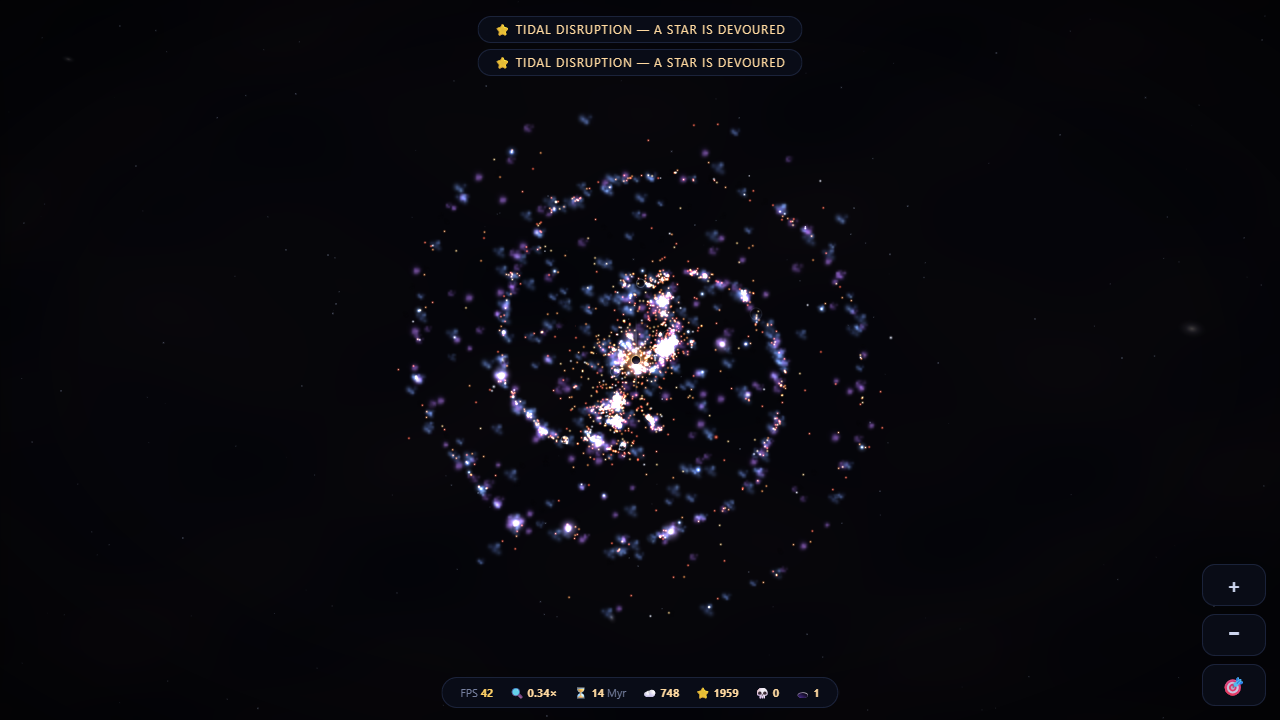
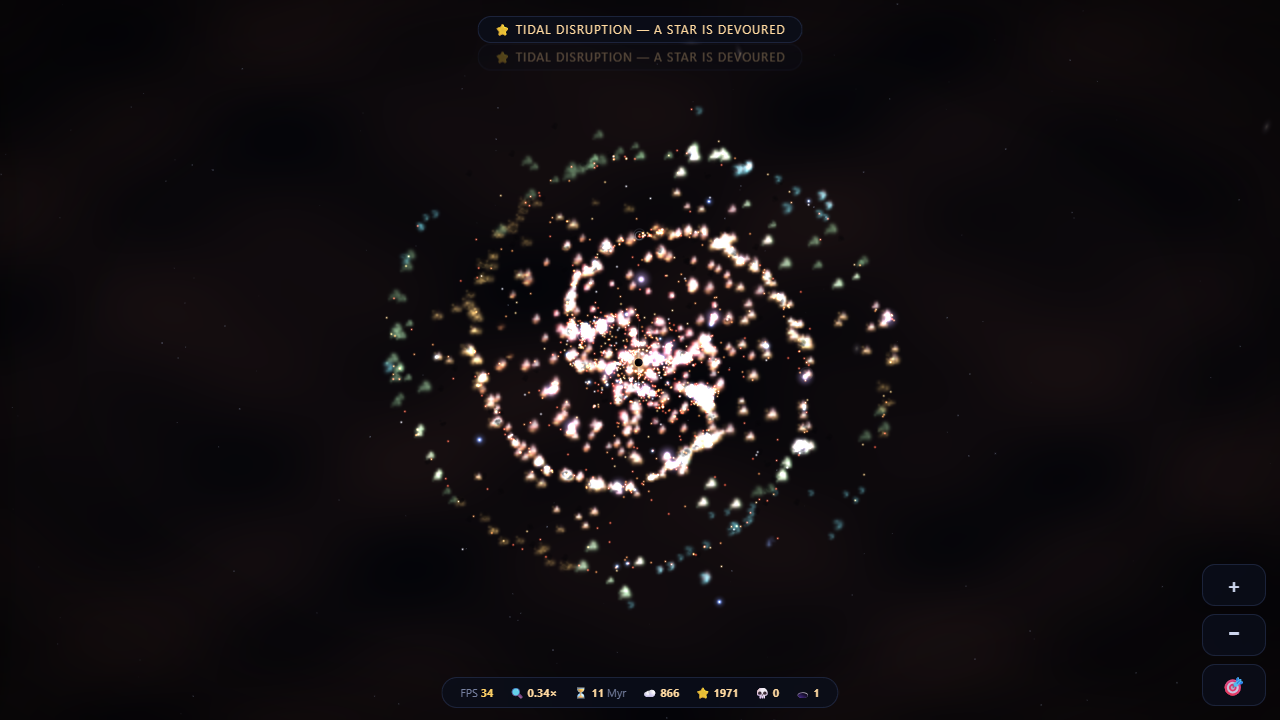
Chandra treatment: regional nebula palettes, HII glow, filament remnants
Gas now takes its tint from a smooth spatial hue field (reseeded each
universe), so every cloud owns a coherent palette - a crimson nebula
here, a teal one there - instead of per-particle confetti averaging to
purple. Eight-tint palette wheel; supernova ejecta glows rust-and-gold.
A coarse screen-space starlight grid splats hot young stars so nearby
gas brightens and ionizes into white-pink HII regions while starless
clouds stay cold and dim. Supernovae now leave a long-lived remnant: a
ragged filamentary shell of cool blue arcs threaded with shocked amber
that expands like sqrt(t) and slowly fades - Cassiopeia A, not a circle.

diff --git a/render.js b/render.js
@@ -14,6 +14,9 @@ const gctx = gasCv.getContext('2d');
 // scratch canvas for the gravitational-lens trick around black holes
 const lensCv = document.createElement('canvas'); lensCv.width = lensCv.height = 256;
 const lctx = lensCv.getContext('2d');
+// coarse screen-space starlight grid — how brightly lit is each patch of sky
+const LG_C = 40, LG_R = 24;
+const lightG = new Float32Array(LG_C * LG_R);
 let W, H, DPR;
 function resize(){
   DPR = Math.min(2, window.devicePixelRatio || 1);
@@ -209,14 +212,22 @@ function makeCloud(core, halo){
   }
   return c;
 }
+// a full palette wheel — the hue field in sim.js sweeps through these, so
+// neighbouring clouds blend and distant regions contrast (crimson nebulae
+// here, teal ones there, gold ejecta where stars have died)
 const GAS_TINTS = [
-  ['rgba(130,170,255,0.5)', 'rgba(60,90,200,0.22)'],
-  ['rgba(190,130,255,0.5)', 'rgba(110,60,200,0.22)'],
-  ['rgba(120,225,235,0.5)', 'rgba(40,130,160,0.22)'],
-  ['rgba(255,140,190,0.5)', 'rgba(180,50,110,0.22)'],
+  ['rgba(255,110,110,0.5)', 'rgba(170,40,60,0.22)'],    // crimson
+  ['rgba(255,160,100,0.5)', 'rgba(170,80,40,0.22)'],    // rust
+  ['rgba(255,210,120,0.5)', 'rgba(170,120,40,0.22)'],   // gold
+  ['rgba(170,230,170,0.5)', 'rgba(60,140,90,0.22)'],    // sage
+  ['rgba(120,225,235,0.5)', 'rgba(40,130,160,0.22)'],   // teal
+  ['rgba(130,170,255,0.5)', 'rgba(60,90,200,0.22)'],    // blue
+  ['rgba(190,130,255,0.5)', 'rgba(110,60,200,0.22)'],   // violet
+  ['rgba(255,140,190,0.5)', 'rgba(180,50,110,0.22)'],   // magenta
 ];
-const GAS_SPRS = [];
-for (const [c1, c2] of GAS_TINTS){ GAS_SPRS.push(makeCloud(c1, c2), makeCloud(c1, c2)); }
+const GAS_SPRS = GAS_TINTS.map(([c1, c2]) => makeCloud(c1, c2));
+// an ionized HII region: gas lit white-pink by the hot young stars inside it
+const emisSpr = makeCloud('rgba(255,205,215,0.6)', 'rgba(255,140,160,0.28)');
 
 // diffraction spikes — the telescope signature of a bright point source.
 // Four main axis-aligned arms plus faint diagonals, pre-rendered once.
@@ -328,6 +339,10 @@ function drainEvents(){
     for (const fn of listeners) fn(e);
     if (e.t === 'sn'){
       fx.push({ k:'sn', x:e.x, y:e.y, age:0, max:90, m:e.m });
+      // …and a remnant: a tattered filamentary shell that lingers and expands
+      const jit = new Float32Array(28);
+      for (let j=0;j<28;j++) jit[j] = Math.random()*2 - 1;
+      fx.push({ k:'snr', x:e.x, y:e.y, age:0, max:560, m:e.m, jit });
       if (!reduceMotion){
         // the closer (and more zoomed-in) the blast, the harder it hits
         const dx = sx(e.x)-W*0.5, dy = sy(e.y)-H*0.5;
@@ -408,6 +423,21 @@ function drawFx(){
       ctx.moveTo(x - Math.cos(f.a)*L, y - Math.sin(f.a)*L);
       ctx.lineTo(x + Math.cos(f.a)*L, y + Math.sin(f.a)*L);
       ctx.stroke();
+    } else if (f.k === 'snr'){
+      // supernova remnant: ragged arcs, cool blue filaments threaded with
+      // shocked amber — expansion fast at first, then stalling (~sqrt t)
+      const r0 = (130 + f.m*3.5) * Math.min(1, Math.sqrt(f.age/110)) * cam.z;
+      if (r0 < 3) continue;
+      const fade = (1-t)*(1-t);
+      const segs = 28, J = f.jit;
+      ctx.lineWidth = Math.max(0.8, 1.6*cam.z*DPR);
+      for (let s=0;s<segs;s++){
+        const a0 = s/segs*6.2832, a1 = (s+0.8)/segs*6.2832;
+        const rr = r0 * (1 + J[s]*0.16 + 0.05*Math.sin(f.age*0.013 + s*2.4));
+        ctx.globalAlpha = fade * (0.3 + 0.35*Math.abs(J[(s+7)%segs]));
+        ctx.strokeStyle = J[s] > 0.15 ? 'rgba(150,210,255,1)' : 'rgba(255,170,100,1)';
+        ctx.beginPath(); ctx.arc(x, y, rr, a0, a1); ctx.stroke();
+      }
     } else if (f.k === 'nova'){
       const r = (4 + 26*t) * cam.z + 2;
       ctx.globalAlpha = 0.8 * (1-t);
@@ -460,18 +490,46 @@ function draw(){
   // gas first (wisps on the half-res layer), then stars on top at full res
   gctx.clearRect(0, 0, gasCv.width, gasCv.height);
   gctx.globalCompositeOperation = 'lighter';
+  // ---- starlight grid: splat the hot stars so gas knows how lit it is.
+  // Gas near young massive stars glows as a white-pink HII region; gas far
+  // from any star stays a cold dim cloud — exactly how the sky works.
+  lightG.fill(0);
+  for (let i=0;i<N;i++){
+    const t = P.type[i];
+    if (t !== STAR || P.m[i] < 3) continue;
+    const x = P.x[i]; if (x<x0||x>x1) continue;
+    const y = P.y[i]; if (y<y0||y>y1) continue;
+    const gx = (sx(x)/W*LG_C)|0, gy = (sy(y)/H*LG_R)|0;
+    const lum = Math.min(2.2, P.m[i]*0.13);
+    for (let oy=-1;oy<=1;oy++){
+      const yy = gy+oy; if (yy<0||yy>=LG_R) continue;
+      for (let ox=-1;ox<=1;ox++){
+        const xx = gx+ox; if (xx<0||xx>=LG_C) continue;
+        lightG[yy*LG_C+xx] += lum * (ox===0&&oy===0 ? 1 : 0.4);
+      }
+    }
+  }
+
   // clouds grow sublinearly with zoom, so zooming in resolves nebulae into
   // wisps and filaments instead of inflating them into airbrushed balls
   const zCloud = z <= 1 ? z : Math.pow(z, 0.6);
-  gctx.globalAlpha = Math.min(0.55, 0.34 + 0.07/z);
+  const gasA = Math.min(0.55, 0.34 + 0.07/z);
   const gasR0 = Math.max(4, 10*zCloud) * DPR;   // half-res radius
   for (let i=0;i<N;i++){
     if (P.type[i] !== GAS || P.spin[i] > 0) continue;
     const x = P.x[i]; if (x<x0||x>x1) continue;
     const y = P.y[i]; if (y<y0||y>y1) continue;
-    const spr = GAS_SPRS[((P.hue[i]*0.0111)|0) & 7];
-    const gasR = gasR0 * (0.7 + (P.hue[i]%37)*0.016);   // varied wisp sizes
-    gctx.drawImage(spr, sx(x)*0.5-gasR, sy(y)*0.5-gasR, gasR*2, gasR*2);
+    const hx = sx(x), hy = sy(y);
+    const hue = ((P.hue[i] % 360) + 360) % 360;
+    const spr = GAS_SPRS[(hue/45)|0];
+    const gasR = gasR0 * (0.7 + (hue%37)*0.016);   // varied wisp sizes
+    const lit = lightG[Math.min(LG_R-1, (hy/H*LG_R)|0)*LG_C + Math.min(LG_C-1, (hx/W*LG_C)|0)];
+    gctx.globalAlpha = gasA * Math.min(1.9, 0.85 + lit*0.8);
+    gctx.drawImage(spr, hx*0.5-gasR, hy*0.5-gasR, gasR*2, gasR*2);
+    if (lit > 0.35){   // ionization glow takes over near the hot stars
+      gctx.globalAlpha = Math.min(0.75, (lit-0.35)*0.7);
+      gctx.drawImage(emisSpr, hx*0.5-gasR, hy*0.5-gasR, gasR*2, gasR*2);
+    }
   }
   ctx.drawImage(gasCv, 0, 0, W, H);
 

diff --git a/sim.js b/sim.js
@@ -51,7 +51,10 @@ function addP(x, y, vx, vy, m, type){
   P.x[i] = x; P.y[i] = y; P.vx[i] = vx; P.vy[i] = vy;
   P.m[i] = m; P.type[i] = type; P.age[i] = 0;
   P.life[i] = type === STAR ? lifeOf(m) : 1e9;
-  P.hue[i] = Math.random() * 360;
+  // gas takes its tint from a smooth spatial field, so each cloud owns a
+  // coherent palette (a crimson nebula HERE, a teal one THERE) instead of
+  // per-particle confetti that averages to mush
+  P.hue[i] = type === GAS ? hueField(x, y) + (Math.random()-0.5)*22 : Math.random() * 360;
   // spin doubles as: gas → dust flag (dark nebula wisp), star → Cepheid pulse rate
   P.spin[i] = 0;
   if (type === GAS && Math.random() < 0.22) P.spin[i] = 1;
@@ -67,6 +70,15 @@ function killP(i){          // swap-with-last
     P.type[i]=P.type[N]; P.hue[i]=P.hue[N]; P.spin[i]=P.spin[N];
     P.id[i]=P.id[N];
   }
+}
+
+// the colour field: three drifting sine waves → smooth 0..360 hue regions.
+// reseeded per universe so every cosmos wears different nebula colours.
+let hp1 = 1.3, hp2 = 4.1, hp3 = 2.2;
+function reseedHues(){ hp1 = Math.random()*6.28; hp2 = Math.random()*6.28; hp3 = Math.random()*6.28; }
+function hueField(x, y){
+  const v = Math.sin(x*0.0042 + hp1) + Math.sin(y*0.0035 + hp2) + Math.sin((x*0.6 + y)*0.0021 + hp3);
+  return ((v + 3) / 6) * 360;
 }
 
 // massive stars burn fast and die loud; dwarfs smoulder for ages.
@@ -241,8 +253,10 @@ function evolve(dt){
 function puffGas(i, n, speed){
   for (let k=0;k<n;k++){
     const a = Math.random()*6.2832, v = speed*(0.5+Math.random());
-    addP(P.x[i]+Math.cos(a)*3, P.y[i]+Math.sin(a)*3,
+    const j = addP(P.x[i]+Math.cos(a)*3, P.y[i]+Math.sin(a)*3,
          P.vx[i]+Math.cos(a)*v, P.vy[i]+Math.sin(a)*v, GAS_M, GAS);
+    // stellar ejecta is enriched: it glows in warm rust-and-gold tones
+    if (j >= 0) P.hue[j] = 50 + Math.random()*50;
   }
 }
 function supernova(i){
@@ -395,7 +409,7 @@ function update(){
 }
 
 // ---- spawners ----
-function clearAll(){ N = 0; era = 0; events.length = 0; }
+function clearAll(){ N = 0; era = 0; events.length = 0; reseedHues(); }
 
 function circVel(r, Menc){ return Math.sqrt(G0*S.gravity*Math.max(1,Menc)/Math.max(8,r)); }
 